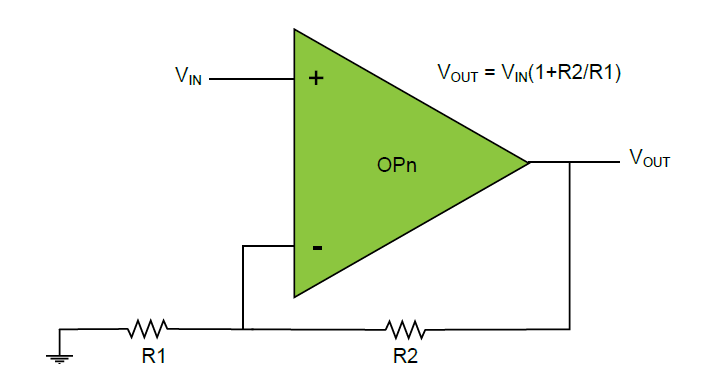
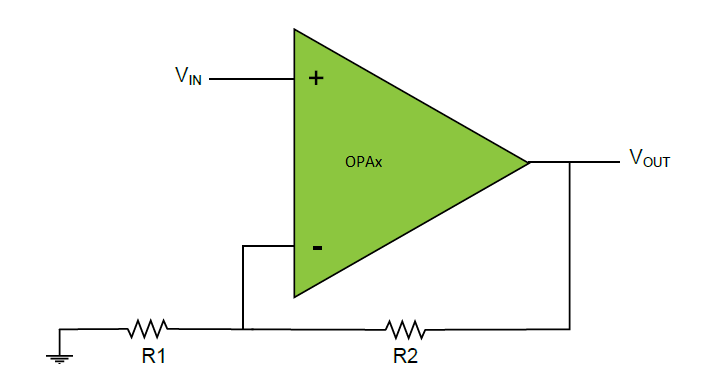
updating figure for pic18q41

Changed region(s): [[0.6128, 0.1531, 0.8886, 0.2143], [0.4596, 0.398, 0.5822, 0.4592]]

diff --git a/README.md b/README.md
@@ -5,6 +5,8 @@ The Non-Inverting Programmable Gain Amplifier is a configuration with run-time s
 
 ![Non-Inverting PGA](images/configuration.png)
 
+<img src="images/non-inverting-gain.png" width="300"/>
+
 ### Mindi Simulation
 <img src="images/mplab-mindi-analog-simulator.png" width="100"/>
 
